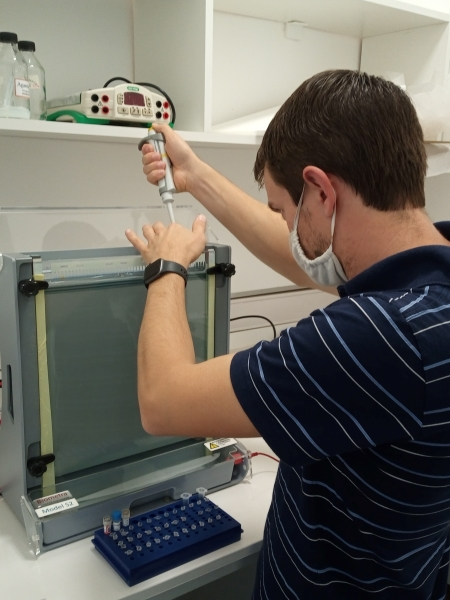
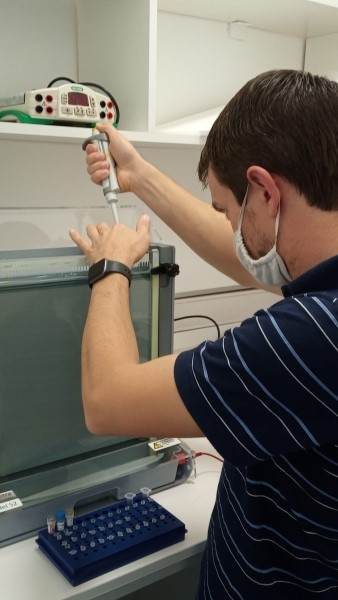
cambio tamaño de img

diff --git a/tematicas.html b/tematicas.html
@@ -70,15 +70,27 @@
 
     <div id="myCarousel" class="carousel slide mb-6" data-bs-ride="carousel">
         <div class="carousel-indicators">
-          <button type="button" data-bs-target="#myCarousel" data-bs-slide-to="0" class="" aria-label="Slide 1"></button>
+          <button type="button" data-bs-target="#myCarousel" data-bs-slide-to="0" class="active" aria-label="Slide 1"></button>
           <button type="button" data-bs-target="#myCarousel" data-bs-slide-to="1" aria-label="Slide 2" class=""></button>
-          <button type="button" data-bs-target="#myCarousel" data-bs-slide-to="2" aria-label="Slide 3" class="active" aria-current="true"></button>
+          <button type="button" data-bs-target="#myCarousel" data-bs-slide-to="2" aria-label="Slide 3" class="" aria-current="true"></button>
+          <button type="button" data-bs-target="#myCarousel" data-bs-slide-to="3" class="" aria-label="Slide 4"></button>
         </div>
+        
         <div class="carousel-inner">
-          <div class="carousel-item">
+          <div class="carousel-item active">
             <svg class="bd-placeholder-img" width="100%" height="100%" xmlns="http://www.w3.org/2000/svg" aria-hidden="true" preserveAspectRatio="xMidYMid slice" focusable="false"><rect width="100%" height="100%" fill="var(--bs-secondary-color)"></rect></svg>
             <div class="container">
               <div class="carousel-caption text-start">
+                <h1>Mejoramiento genético</h1>
+                <p>Breve descripción</p>
+                <p><a class="btn btn-lg btn-primary" href="#mejoramiento">Conocer más</a></p>
+              </div>
+            </div>
+          </div>
+          <div class="carousel-item">
+            <svg class="bd-placeholder-img" width="100%" height="100%" xmlns="http://www.w3.org/2000/svg" aria-hidden="true" preserveAspectRatio="xMidYMid slice" focusable="false"><rect width="100%" height="100%" fill="var(--bs-secondary-color)"></rect></svg>
+            <div class="container">
+              <div class="carousel-caption">
                 <h1>Biotecnología</h1>
                 <p class="opacity-75">Breve descripción</p>
                 <p><a class="btn btn-lg btn-primary" href="#biotecnologia">Conocer más</a></p>
@@ -94,14 +106,14 @@
                 <p><a class="btn btn-lg btn-primary" href="#ecofisiologia">Conocer más</a></p>
               </div>
             </div>
-          </div>
-          <div class="carousel-item active">
+          </div>          
+          <div class="carousel-item">
             <svg class="bd-placeholder-img" width="100%" height="100%" xmlns="http://www.w3.org/2000/svg" aria-hidden="true" preserveAspectRatio="xMidYMid slice" focusable="false"><rect width="100%" height="100%" fill="var(--bs-secondary-color)"></rect></svg>
             <div class="container">
               <div class="carousel-caption text-end">
-                <h1>Mejoramiento genético</h1>
-                <p>Breve descripción</p>
-                <p><a class="btn btn-lg btn-primary" href="#mejoramiento">Conocer más</a></p>
+                <h1>Cluster</h1>
+                <p class="opacity-75">Breve descripción</p>
+                <p><a class="btn btn-lg btn-primary" href="#cluster">Conocer más</a></p>
               </div>
             </div>
           </div>
@@ -130,11 +142,11 @@
         <hr class="featurette-divider" id="mejoramiento">
     
         <div class="row featurette">
-          <div class="col-md-7">
+          <div class="col-md-8">
             <h2 class="featurette-heading fw-normal lh-1">Mejoramiento genético</h2>
             <p class="lead">Some great placeholder content for the first featurette here. Imagine some exciting prose here.</p>
           </div>
-          <div class="col-md-5">
+          <div class="col-md-4">
             <img src="img/mejoramiento.jpg" alt="">
           </div>
         </div>
@@ -142,11 +154,11 @@
         <hr class="featurette-divider" id="biotecnologia">
     
         <div class="row featurette">
-          <div class="col-md-7 order-md-2">
+          <div class="col-md-8 order-md-2">
             <h2 class="featurette-heading fw-normal lh-1">Biotecnología </h2>
             <p class="lead">Another featurette? Of course. More placeholder content here to give you an idea of how this layout would work with some actual real-world content in place.</p>
           </div>
-          <div class="col-md-5 order-md-1">
+          <div class="col-md-4 order-md-1">
             <img src="img/biotecnologia.jpg" alt="">
           </div>
         </div>
@@ -154,11 +166,11 @@
         <hr class="featurette-divider" id="ecofisiologia">
     
         <div class="row featurette">
-          <div class="col-md-7">
+          <div class="col-md-8">
             <h2 class="featurette-heading fw-normal lh-1">Ecofisiología y manejo</h2>
             <p class="lead">And yes, this is the last block of representative placeholder content. Again, not really intended to be actually read, simply here to give you a better view of what this would look like with some actual content. Your content.</p>
           </div>
-          <div class="col-md-5">
+          <div class="col-md-4">
             <img src="img/ecofisiologia.jpg" alt="">
           </div>
         </div>
@@ -166,11 +178,11 @@
         <hr class="featurette-divider" id="cluster">
 
         <div class="row featurette">
-          <div class="col-md-7 order-md-2">
+          <div class="col-md-8 order-md-2">
             <h2 class="featurette-heading fw-normal lh-1">Cluster algodonero</h2>
             <p class="lead">Another featurette? Of course. More placeholder content here to give you an idea of how this layout would work with some actual real-world content in place.</p>
           </div>
-          <div class="col-md-5 order-md-1">
+          <div class="col-md-4 order-md-1">
             <img src="img/cluster.jpg" alt="">
           </div>
         </div>

diff --git a/script.js b/script.js
@@ -10,4 +10,3 @@ function fixNav() {
         nav.classList.remove('active')
     }
 }
-
